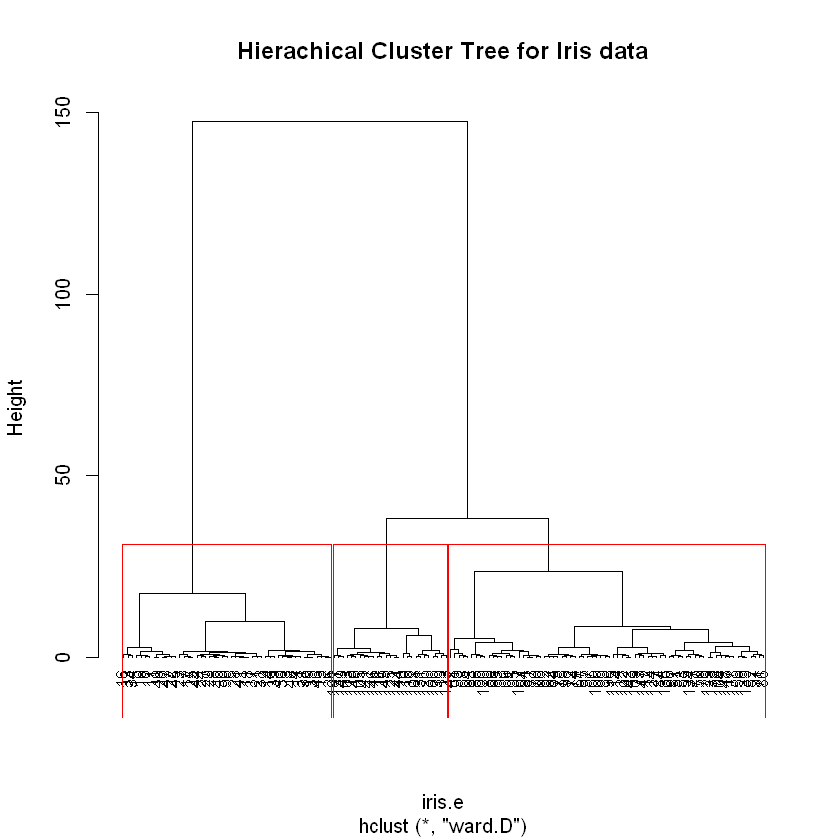
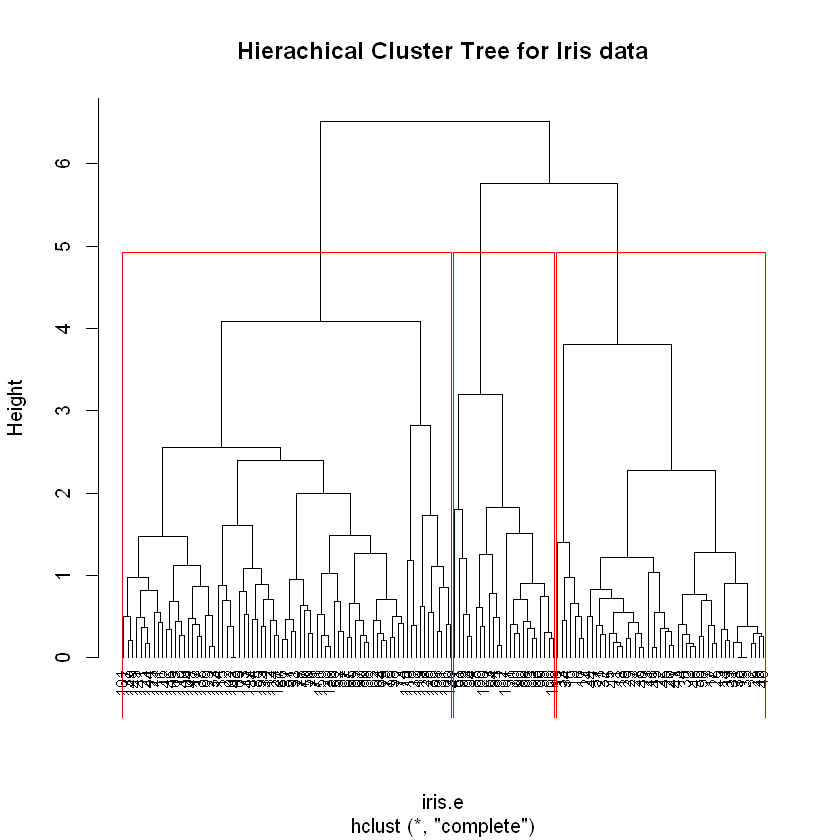
Modify home/post.html and fix some bugs.

diff --git a/_layouts/post.html b/_layouts/post.html
@@ -5,7 +5,10 @@ layout: default
 
   <header class="post-header">
     <h1 class="post-title" itemprop="name headline">{{ page.title | escape }}</h1>
-    <p class="post-meta"><time datetime="{{ page.date | date_to_xmlschema }}" itemprop="datePublished">{{ page.date | date: "%b %-d, %Y" }}</time>{% if page.author %} • <span itemprop="author" itemscope itemtype="http://schema.org/Person"><span itemprop="name">{{ page.author }}</span></span>{% endif %}</p>
+    <p class="post-meta">
+      <time datetime="{{ page.date | date_to_xmlschema }}" itemprop="datePublished">{{ page.date | date: '%Y-%m-%d' }}</time>
+      {% if page.categories %}分类：{% for category in page.categories %}<a href="{{ site.url }}/categories#{{ page.categories }}">{{ category | escape }}</a>; {% endfor %}{% endif %}
+    </p>
   </header>
 
 <div class="related-post">

diff --git a/_layouts/home.html b/_layouts/home.html
@@ -15,7 +15,13 @@ layout: default
         
 		{% if post.categories %}
 		<p class="post-meta">
-			<span class="post-meta">{{ post.date | date: "%b %-d, %Y" }}
+      <span class="post-meta">{{ post.date | date: '%Y-%m-%d' }}</span>
+      {% for post in category.last %}
+        <li>{{ post.date | date: '%Y-%m-%d'}} <a href="{{ post.url }}">{{ post.title }}</a></li>
+      {% endfor %}
+      分类: {% for category in post.categories %}
+        <a href="{{ site.url }}/categories#{{ category }}">{{ category | escape }}</a>; 
+      {% endfor %}
 		</p>
 		{% endif %}
 

diff --git a/_sass/minima/_base.scss b/_sass/minima/_base.scss
@@ -16,7 +16,7 @@ table{
 }
 
 table th{
-  text-align:center;
+  text-align: center;
 }
 
 table td{
@@ -26,7 +26,6 @@ table td{
 
 table th,td{
   word-wrap: break-word;
-  border: 1px solid #000000;
 }
 
 /**

diff --git a/_posts/2017-01-08-Advanced-blog-skills.md b/_posts/2017-01-08-Advanced-blog-skills.md
@@ -153,6 +153,7 @@ tag: 搭建博客
 所有博客页面的 layout 类型都是 post，因此我们可以从 \_layouts/post.html 文件中下手：
 
 ```html
+{% raw %}
 <div class="related-post">
   {% for eachtag in site.tags %}
     {% if page.tags.first != eachtag.first %}
@@ -162,11 +163,14 @@ tag: 搭建博客
     <h3 style="font-family: Microsoft YaHei">{{ eachtag.first }} 系列博文</h3>
     <ul class="arc-list">
     {% for post in eachtag.last %}
-        <li>{{ post.date | date: '%Y-%m-%d'}} <a href="{{ post.url }}">{{ post.title }}</a></li>
+      <li>
+        {{ post.date | date: '%Y-%m-%d'}}<a href="{{ post.url }}">{{ post.title }}</a>
+      </li>
     {% endfor %}
   </ul>
   {% endfor %}
 </div>
+{% endraw %}
 ```
 
 其中，`site.tags` 是一个文章列表，里面的每个元素 eachtag 都是一个 tag 下辖的所有博文。其 first 成员则是 tag 名称。如果该名称与本页面所属 tag 一致（注：本站所有页面都只有一个 tag，用作相关文章列表），那么输出该 tag 下所有博文标题与链接。
@@ -177,6 +181,36 @@ tag: 搭建博客
       background-color: lightgray;
       margin-bottom: 10pt;
     }
+
+## 表格样式
+
+到 \_sass/minima/\_basem.scss 中添加：
+
+```css
+table{
+  table-layout: fixed;
+  border: 1px solid #000000; // 表线
+  width: 95%;  // 总宽
+  border-spacing: 1px; // 单元格间距
+  border-collapse: collapsed; 
+  word-wrap: break-word; // 自动换行
+  word-break: break-all;
+  margin-bottom: $spacing-unit / 2;
+}
+
+table th{ // 表头
+  text-align: center;
+}
+
+table td{ // 非表头单元格
+  text-align: center;
+  padding: 3px;
+}
+
+table th,td{
+  word-wrap: break-word;
+}
+```
 
 ## Jekyll 官方文档
 

diff --git a/_posts/2017-01-18-R-clustering.md b/_posts/2017-01-18-R-clustering.md
@@ -1,8 +1,8 @@
 ---
 layout: post
 title: R语言学习与速查（聚类）
-category: R
-tag: R-learning
+categories: Machine-Learning R
+tags: R-learning
 ---
 
 
@@ -301,9 +301,9 @@ rect.hclust(iris.hc, k=cluster_num)
 ![png](https://wklchris.github.io/assets/ipynb-images/R-clustering_16_0.png)
 
 
-## 用 MDS 检验聚类结果
+## 用 MDS 可视化结果
 
-使用多维缩放方法进行检验。原数据的三个种类被标记为三种不同的点形状，聚类结果则以颜色显示。
+使用多维缩放（Multidimensional Scaling）方法进行可视化。原数据的三个种类被标记为三种不同的点形状，聚类结果则以颜色显示。
 
 可以看到setose品种聚类很成功，但有一些virginica品种的花被错误和virginica品种聚类到一起。
 
@@ -332,7 +332,7 @@ p+geom_point(size=3, alpha=0.8, aes(colour=factor(clusters),
 
 ```R
 dist_method <- "euclidean"
-cluster_method <- "ward.D"
+cluster_method <- "complete"
 
 iris.e <- dist(iris.scaled, method=dist_method)
 iris.hc <- hclust(iris.e, method=cluster_method)
@@ -349,7 +349,7 @@ rect.hclust(iris.hc, k=cluster_num)
 
     clusters
      1  2  3 
-    49 74 27 
+    49 24 77 
 
 
 
@@ -373,7 +373,7 @@ p+geom_point(size=3, alpha=0.8, aes(colour=factor(clusters),
 ![png](https://wklchris.github.io/assets/ipynb-images/R-clustering_21_1.png)
 
 
-可以看出，setosa 聚类非常好； virginica 聚类非常纯粹，但不少数据被聚类到了 versicolor 中。此外，setosa 也有一个数据点在 versicolor 中。
+可以看出，setosa 聚类非常好； virginica 与 versicolor 的效果则是惨不忍睹。
 
 *本文内容大量参考：*
 
